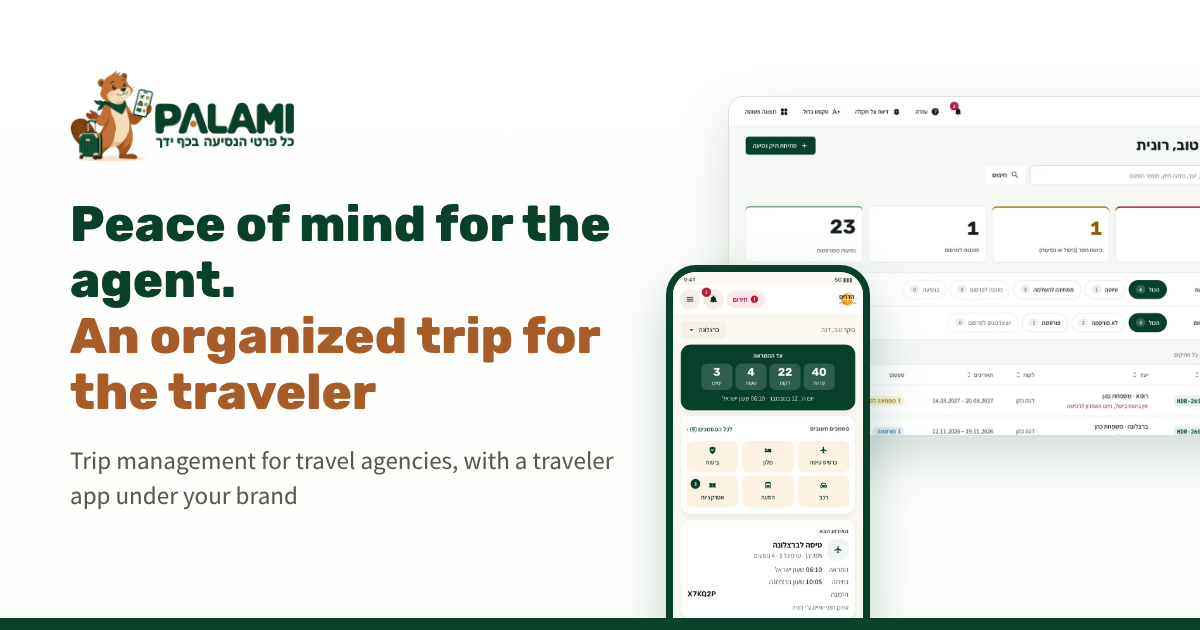
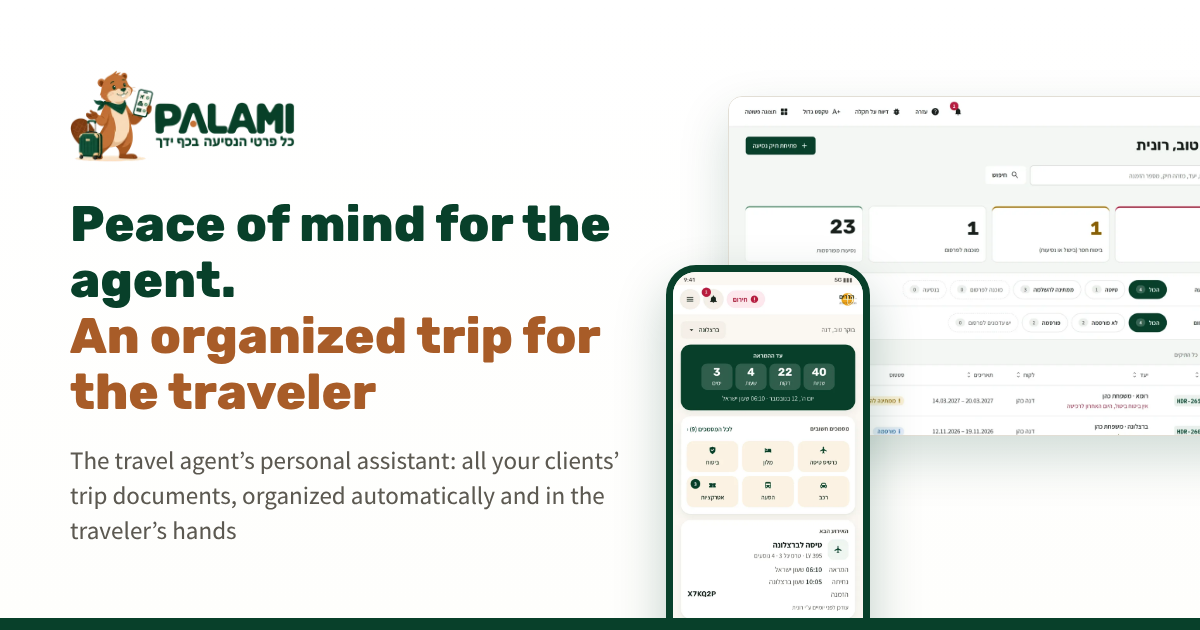
Personal assistant positioning: hero eyebrow, page titles, descriptions and share images (HE+EN)
Claude-Session: https://claude.ai/code/session_017thBx4EV1QoiAPTLcgTVwC

Changed region(s): [[0.0617, 0.7238, 0.5242, 0.8746]]

diff --git a/site/dist/index.html b/site/dist/index.html
@@ -11,16 +11,16 @@
 <link rel="apple-touch-icon" href="img/apple-touch-icon.png">
 <meta property="og:type" content="website">
 <meta property="og:site_name" content="PALAMI">
-<meta property="og:title" content="PALAMI · עמוד הבית">
-<meta property="og:description" content="PALAMI: מערכת לניהול נסיעות לסוכנויות נסיעות ולסוכנים עצמאיים ואפליקציה לנוסע במיתוג הסוכנות.">
+<meta property="og:title" content="העוזר האישי של סוכן הנסיעות | PALAMI">
+<meta property="og:description" content="כל מסמכי הנסיעה של הלקוחות, מסודרים אוטומטית ובכף היד של הנוסע. לסוכנויות נסיעות ולסוכנים עצמאיים.">
 <meta property="og:url" content="https://www.palami.io/">
 <meta property="og:image" content="https://www.palami.io/img/og-he.png">
 <meta property="og:image:width" content="1200">
 <meta property="og:image:height" content="630">
 <meta property="og:locale" content="he_IL">
 <meta name="twitter:card" content="summary_large_image">
-<title>PALAMI · עמוד הבית</title>
-<meta name="description" content="PALAMI: מערכת לניהול נסיעות לסוכנויות נסיעות ולסוכנים עצמאיים ואפליקציה לנוסע במיתוג הסוכנות.">
+<title>העוזר האישי של סוכן הנסיעות | PALAMI</title>
+<meta name="description" content="כל מסמכי הנסיעה של הלקוחות, מסודרים אוטומטית ובכף היד של הנוסע. לסוכנויות נסיעות ולסוכנים עצמאיים.">
 <link rel="icon" href="img/favicon-32.png">
 <link rel="preload" href="fonts/fonts.css" as="style">
 <link rel="stylesheet" href="fonts/fonts.css">
@@ -60,7 +60,7 @@
   <!-- A · HERO -->
   <section class="hero"><div class="in">
     <div class="txt">
-      <span class="eyb">לסוכנויות נסיעות ולסוכנים עצמאיים</span>
+      <span class="eyb">העוזר האישי של סוכן הנסיעות</span>
       <h1>ראש שקט לסוכן.<br><span>נסיעה מסודרת לנוסע</span><span class="dot"></span></h1>
       <p class="lead"><strong>כל מסמכי הנסיעה של הלקוחות, מסודרים אוטומטית ובכף היד של הנוסע.</strong> גוררים את המסמכים, מערכת <span class="ltr">AI</span> מתייקת הכל ואתם יודעים בכל רגע מה עוד חסר בכל תיק.</p>
       <div class="ctas"><a class="btn" href="#demo">בקשת הדגמה</a><a class="btn ghost" href="#how">איך זה עובד <span aria-hidden="true">↓</span></a></div>

diff --git a/site/dist/en/index.html b/site/dist/en/index.html
@@ -11,16 +11,16 @@
 <link rel="apple-touch-icon" href="../img/apple-touch-icon.png">
 <meta property="og:type" content="website">
 <meta property="og:site_name" content="PALAMI">
-<meta property="og:title" content="PALAMI · Trip management for travel agencies">
-<meta property="og:description" content="PALAMI: a trip management system for travel agencies and independent agents, with a traveler app under the agency's brand.">
+<meta property="og:title" content="PALAMI | The travel agent’s personal assistant">
+<meta property="og:description" content="All your clients’ trip documents, organized automatically and in the traveler’s hands. For travel agencies and independent travel agents.">
 <meta property="og:url" content="https://www.palami.io/en/">
 <meta property="og:image" content="https://www.palami.io/img/og-en.png">
 <meta property="og:image:width" content="1200">
 <meta property="og:image:height" content="630">
 <meta property="og:locale" content="en_US">
 <meta name="twitter:card" content="summary_large_image">
-<title>PALAMI · Trip management for travel agencies</title>
-<meta name="description" content="PALAMI: a trip management system for travel agencies and independent agents, with a traveler app under the agency's brand.">
+<title>PALAMI | The travel agent’s personal assistant</title>
+<meta name="description" content="All your clients’ trip documents, organized automatically and in the traveler’s hands. For travel agencies and independent travel agents.">
 <link rel="icon" href="../img/favicon-32.png">
 <link rel="preload" href="../fonts/fonts.css" as="style">
 <link rel="stylesheet" href="../fonts/fonts.css">
@@ -60,7 +60,7 @@
   <!-- A · HERO -->
   <section class="hero"><div class="in">
     <div class="txt">
-      <span class="eyb">For travel agencies and independent travel agents</span>
+      <span class="eyb">The travel agent’s personal assistant</span>
       <h1>Peace of mind for the agent.<br><span>An organized trip for the traveler</span><span class="dot"></span></h1>
       <p class="lead"><strong>All your clients' trip documents, organized automatically and in the traveler's hands.</strong> Drag in the documents, AI files everything and you always know what is still missing in each trip file.</p>
       <div class="ctas"><a class="btn" href="#demo">Request a demo</a><a class="btn ghost" href="#how">How it works <span aria-hidden="true">↓</span></a></div>

diff --git a/site/index.html b/site/index.html
@@ -1,6 +1,6 @@
-<title>PALAMI · עמוד הבית</title>
+<title>העוזר האישי של סוכן הנסיעות | PALAMI</title>
 <meta name="claude:viewport-fit-sides" content="cover">
-<meta name="description" content="PALAMI: מערכת לניהול נסיעות לסוכנויות נסיעות ולסוכנים עצמאיים ואפליקציה לנוסע במיתוג הסוכנות.">
+<meta name="description" content="כל מסמכי הנסיעה של הלקוחות, מסודרים אוטומטית ובכף היד של הנוסע. לסוכנויות נסיעות ולסוכנים עצמאיים.">
 <link rel="icon" href="img/favicon-32.png">
 <link rel="preconnect" href="https://fonts.googleapis.com">
 <link rel="preconnect" href="https://fonts.gstatic.com" crossorigin>
@@ -40,7 +40,7 @@
   <!-- A · HERO -->
   <section class="hero"><div class="in">
     <div class="txt">
-      <span class="eyb">לסוכנויות נסיעות ולסוכנים עצמאיים</span>
+      <span class="eyb">העוזר האישי של סוכן הנסיעות</span>
       <h1>ראש שקט לסוכן.<br><span>נסיעה מסודרת לנוסע</span><span class="dot"></span></h1>
       <p class="lead"><strong>כל מסמכי הנסיעה של הלקוחות, מסודרים אוטומטית ובכף היד של הנוסע.</strong> גוררים את המסמכים, מערכת <span class="ltr">AI</span> מתייקת הכל ואתם יודעים בכל רגע מה עוד חסר בכל תיק.</p>
       <div class="ctas"><a class="btn" href="#demo">בקשת הדגמה</a><a class="btn ghost" href="#how">איך זה עובד <span aria-hidden="true">↓</span></a></div>

diff --git a/site/en/index.html b/site/en/index.html
@@ -1,6 +1,6 @@
-<title>PALAMI · Trip management for travel agencies</title>
+<title>PALAMI | The travel agent’s personal assistant</title>
 <meta name="claude:viewport-fit-sides" content="cover">
-<meta name="description" content="PALAMI: a trip management system for travel agencies and independent agents, with a traveler app under the agency's brand.">
+<meta name="description" content="All your clients’ trip documents, organized automatically and in the traveler’s hands. For travel agencies and independent travel agents.">
 <link rel="icon" href="../img/favicon-32.png">
 <link rel="preconnect" href="https://fonts.googleapis.com">
 <link rel="preconnect" href="https://fonts.gstatic.com" crossorigin>
@@ -40,7 +40,7 @@
   <!-- A · HERO -->
   <section class="hero"><div class="in">
     <div class="txt">
-      <span class="eyb">For travel agencies and independent travel agents</span>
+      <span class="eyb">The travel agent’s personal assistant</span>
       <h1>Peace of mind for the agent.<br><span>An organized trip for the traveler</span><span class="dot"></span></h1>
       <p class="lead"><strong>All your clients' trip documents, organized automatically and in the traveler's hands.</strong> Drag in the documents, AI files everything and you always know what is still missing in each trip file.</p>
       <div class="ctas"><a class="btn" href="#demo">Request a demo</a><a class="btn ghost" href="#how">How it works <span aria-hidden="true">↓</span></a></div>

diff --git a/site/tools/og/og-he.html b/site/tools/og/og-he.html
@@ -14,7 +14,7 @@ p{font:500 25px/1.4 Assistant,sans-serif;color:#5C5951;margin:22px 0 0}
 .ph img{width:100%}
 .bar{position:absolute;inset-inline:0;bottom:0;height:12px;background:#08402A}
 </style></head><body>
-<div class="t"><img class="logo" src="../../img/logo-full.webp" alt=""><h1>ראש שקט לסוכן.<br><span>נסיעה מסודרת לנוסע</span></h1><p>מערכת לניהול הנסיעות של הסוכנות, עם אפליקציה לנוסע במיתוג שלכם</p></div>
+<div class="t"><img class="logo" src="../../img/logo-full.webp" alt=""><h1>ראש שקט לסוכן.<br><span>נסיעה מסודרת לנוסע</span></h1><p>העוזר האישי של סוכן הנסיעות: כל מסמכי הנסיעה של הלקוחות, מסודרים אוטומטית ובכף היד של הנוסע</p></div>
 <img class="dash" src="../../img/r-dash.webp" alt="">
 <div class="ph"><img src="../../img/t-home-before.webp" alt=""></div>
 <div class="bar"></div>

diff --git a/site/tools/og/og-en.html b/site/tools/og/og-en.html
@@ -14,7 +14,7 @@ p{font:500 25px/1.4 Assistant,sans-serif;color:#5C5951;margin:22px 0 0}
 .ph img{width:100%}
 .bar{position:absolute;inset-inline:0;bottom:0;height:12px;background:#08402A}
 </style></head><body>
-<div class="t"><img class="logo" src="../../img/logo-full.webp" alt=""><h1>Peace of mind for the agent.<br><span>An organized trip for the traveler</span></h1><p>Trip management for travel agencies, with a traveler app under your brand</p></div>
+<div class="t"><img class="logo" src="../../img/logo-full.webp" alt=""><h1>Peace of mind for the agent.<br><span>An organized trip for the traveler</span></h1><p>The travel agent’s personal assistant: all your clients’ trip documents, organized automatically and in the traveler’s hands</p></div>
 <img class="dash" src="../../img/r-dash.webp" alt="">
 <div class="ph"><img src="../../img/t-home-before.webp" alt=""></div>
 <div class="bar"></div>
